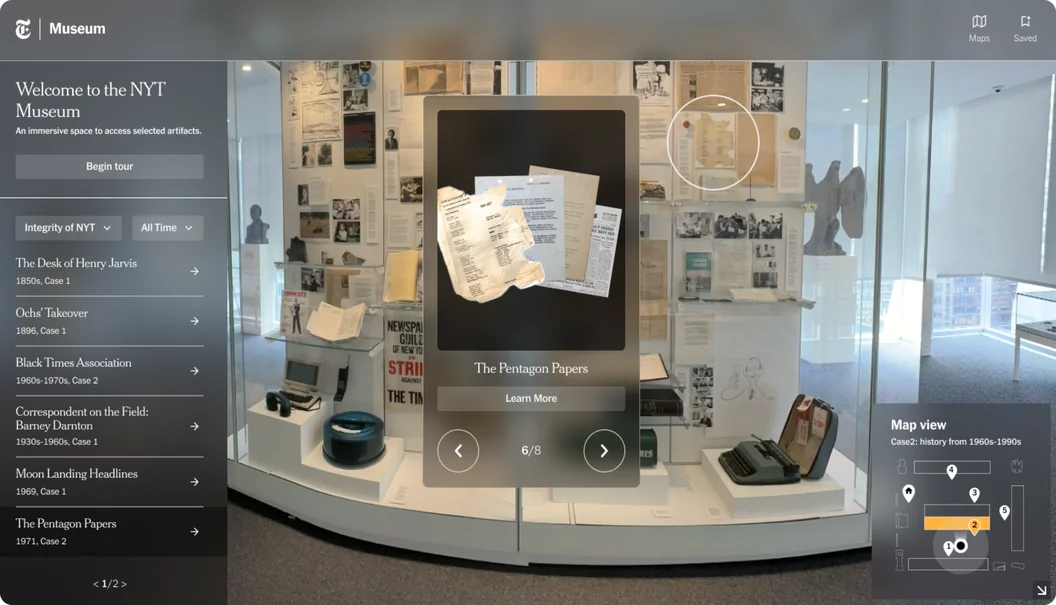
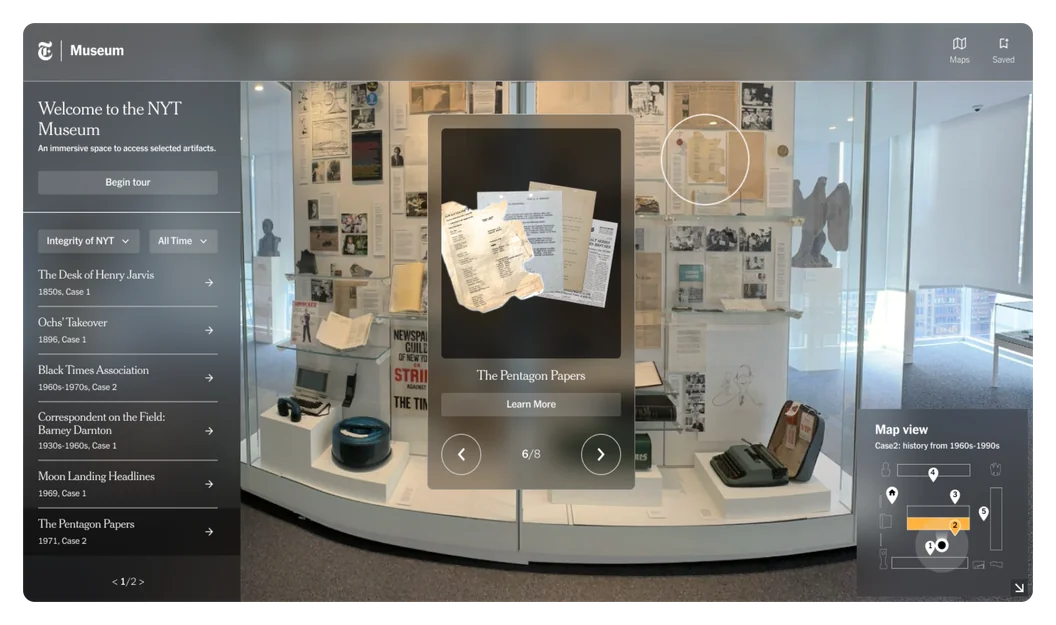
Revert "Crop transparent margins from case study images"
This reverts the image cropping; not the intended change.

Claude-Session: https://claude.ai/code/session_015jk89ALhmaMZFLte5xrJwg

diff --git a/index.html b/index.html
@@ -50,7 +50,7 @@
         <ul class="project-list">
             <li class="project" style="--accent: #e92e24">
                 <div class="project__media">
-                    <img src="assets/projects/adobe-journey-optimizer.webp" width="1056" height="605" alt="Adobe Journey Optimizer insights dashboard">
+                    <img src="assets/projects/adobe-journey-optimizer.webp" width="1056" height="625" alt="Adobe Journey Optimizer insights dashboard">
                 </div>
                 <div class="project__details">
                     <div class="project__meta">
@@ -69,7 +69,7 @@
 
             <li class="project" style="--accent: #ff5b49">
                 <div class="project__media">
-                    <img src="assets/projects/seatgeek-live-activities.webp" width="1056" height="608" alt="SeatGeek Live Activities on two phone lock screens">
+                    <img src="assets/projects/seatgeek-live-activities.webp" width="1056" height="628" alt="SeatGeek Live Activities on two phone lock screens">
                 </div>
                 <div class="project__details">
                     <div class="project__meta">
@@ -88,7 +88,7 @@
 
             <li class="project" style="--accent: #292b35">
                 <div class="project__media">
-                    <img src="assets/projects/nyt-topics-onboarding.webp" width="1056" height="608" alt="New York Times onboarding screen for choosing topics">
+                    <img src="assets/projects/nyt-topics-onboarding.webp" width="1056" height="628" alt="New York Times onboarding screen for choosing topics">
                 </div>
                 <div class="project__details">
                     <div class="project__meta">
@@ -107,7 +107,7 @@
 
             <li class="project" style="--accent: #4aa63a">
                 <div class="project__media">
-                    <img src="assets/projects/symbotic-design-system.webp" width="1056" height="605" alt="Symbotic operator software in a dark theme">
+                    <img src="assets/projects/symbotic-design-system.webp" width="1056" height="625" alt="Symbotic operator software in a dark theme">
                 </div>
                 <div class="project__details">
                     <div class="project__meta">
@@ -126,7 +126,7 @@
             <!-- TODO: Not featured in the Figma frames — title/summary taken from the screenshot; needs real copy, tags and logo. -->
             <li class="project">
                 <div class="project__media">
-                    <img src="assets/projects/wordsworth-illustrated.webp" width="1056" height="608" alt="Wordsworth Illustrated interactive exhibit">
+                    <img src="assets/projects/wordsworth-illustrated.webp" width="1056" height="628" alt="Wordsworth Illustrated interactive exhibit">
                 </div>
                 <div class="project__details">
                     <h2 class="project__title">Wordsworth Illustrated</h2>
@@ -137,7 +137,7 @@
             <!-- TODO: logo (two small images in Figma) still needs exporting; heading colour assumed to match NYT. -->
             <li class="project" style="--accent: #292b35">
                 <div class="project__media">
-                    <img src="assets/projects/nyt-museum.webp" width="1056" height="605" alt="New York Times museum digital exhibit">
+                    <img src="assets/projects/nyt-museum.webp" width="1056" height="625" alt="New York Times museum digital exhibit">
                 </div>
                 <div class="project__details">
                     <div class="project__meta">

diff --git a/home.css b/home.css
@@ -207,10 +207,11 @@ body.home {
 .project__media {
     flex: none;
     width: var(--card-width);
-    aspect-ratio: 2798 / 1604;    /* screenshots cropped to their content */
+    aspect-ratio: 2926 / 1732;
     overflow: hidden;
     border: 0.5px solid #b1b5bd;
     border-radius: 6px;
+    background: rgba(225, 225, 225, 0.5);
     box-shadow: 6px 6px 40px rgba(0, 0, 0, 0.15);
 }
 

diff --git a/home.js b/home.js
@@ -22,7 +22,7 @@
     const GAP = 32;             // px between cards
     const W_MIN = 354;          // card width at rest
     const W_MAX = 528;          // card width at the centre
-    const ASPECT = 2798 / 1604;
+    const ASPECT = 2926 / 1732;
     const LAPS = 7;             // laps of the loop in the scroll track
     const LAP = PITCH * N;
 
